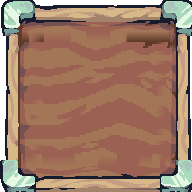
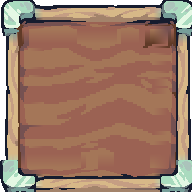
Suavizar cantos da mesa e reduzir inventário mobile

diff --git a/styles/game.css b/styles/game.css
@@ -210,7 +210,7 @@ main { grid-template: minmax(0, 1fr) / minmax(0, 1fr); }
   #joystick { width:clamp(92px,18vmin,134px); }
   #home-inventory {
     left:max(8px,env(safe-area-inset-left));right:auto;top:26%;bottom:23%;
-    transform:none;width:clamp(116px,30vw,132px);max-height:none;
+    transform:none;width:clamp(108px,28vw,124px);max-height:none;
     padding:4px;border-width:18px 16px 16px 18px;
     border-image-width:18px 16px 16px 18px;overflow:visible;
     display:flex;flex-direction:column;
